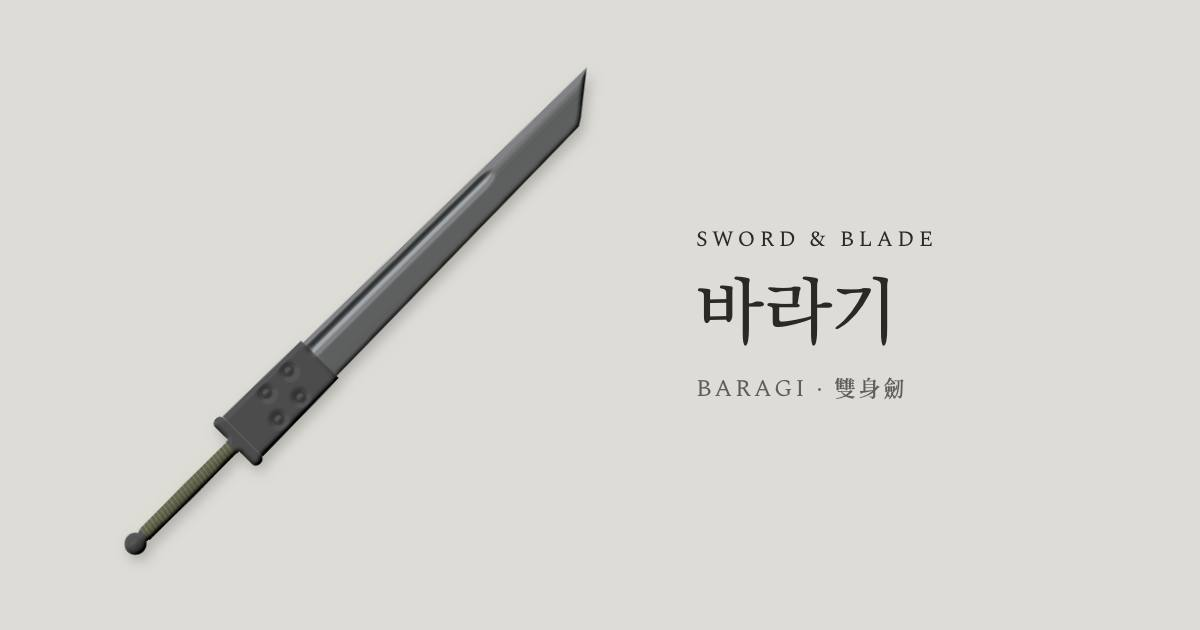
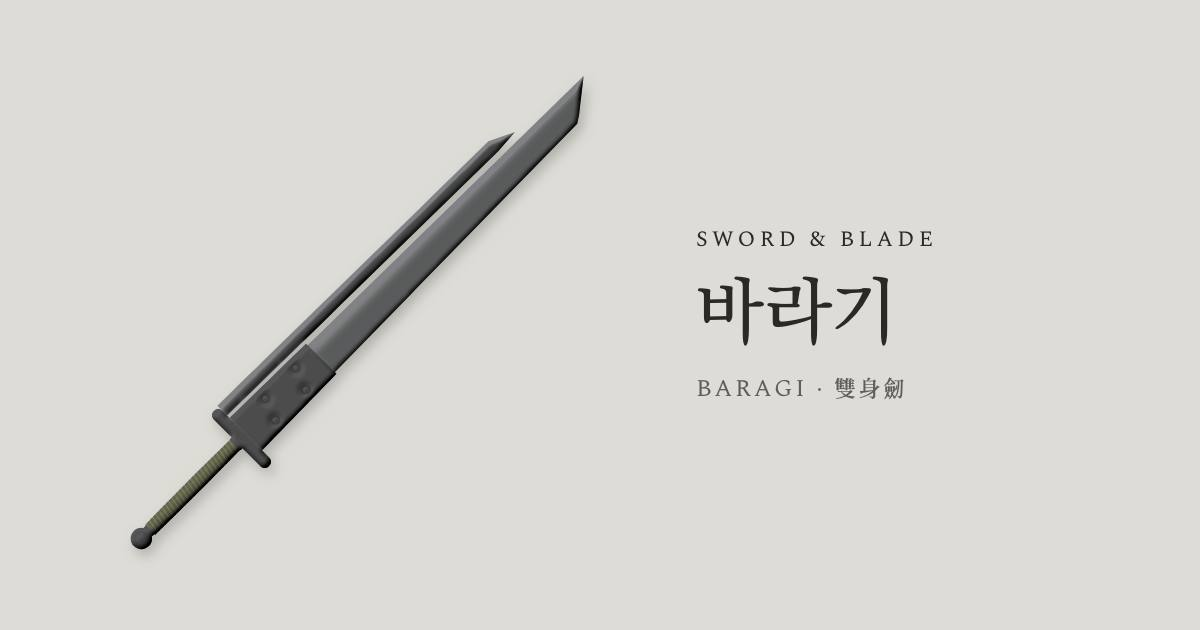
feat: 부조 렌더러 메달리온 문양과 나란한 두 칼날 1.9.0
메달리온 가운데 문양(편 손바닥·십자·별)과 한 코등이에 나란히 붙은 두 번째
칼날(twin)을 더함. 파멸의 인도자에 편 손바닥, 바라기를 두 칼날로. 시드 버전 17.

diff --git a/packages/sword-art/src/SwordRelief.tsx b/packages/sword-art/src/SwordRelief.tsx
@@ -20,6 +20,7 @@ import {
   sickleHookPath,
   sleevePoints,
   squareViewBox,
+  twinBladeOutline,
 } from './geometry';
 
 import type { SwordArt } from '@snb/domain';
@@ -194,6 +195,7 @@ function renderParts(art: SwordArt, layout: HiltLayout, layer: Layer, id: (name:
 
   return (
     <>
+      {art.blade.twin ? <TwinBlade art={art} fill={bladeFill} opacity={bladeOpacity} /> : null}
       <Blade art={art} fill={bladeFill} opacity={bladeOpacity} layer={layer} clipId={id('blade')} />
       {art.collar ? <Collar art={art} layout={layout} layer={layer} /> : null}
       <Guard art={art} layout={layout} layer={layer} />
@@ -429,9 +431,38 @@ function Medallion({ art, layer }: { art: SwordArt; layer: Layer }) {
         stroke={isHeight ? H.mid : '#00000033'}
         strokeWidth={r * 0.07}
       />
-      <circle cx={center.x} cy={center.y} r={r * 0.34} fill={isHeight ? H.raised : '#ffffff33'} />
+      {medallion.emblem ? (
+        <path
+          d={EMBLEMS[medallion.emblem]}
+          transform={`translate(${center.x} ${center.y}) scale(${r * 0.55})`}
+          fill={isHeight ? H.mid : '#00000055'}
+        />
+      ) : (
+        <circle cx={center.x} cy={center.y} r={r * 0.34} fill={isHeight ? H.raised : '#ffffff33'} />
+      )}
     </g>
   );
+}
+
+/** 메달리온 문양(가로세로 -1~1). 손바닥은 네 손가락·엄지·손바닥, 십자, 다섯 갈래 별 */
+const EMBLEMS: Record<NonNullable<NonNullable<SwordArt['blade']['medallion']>['emblem']>, string> = {
+  hand: [
+    'M-0.5 -0.05 H0.5 V0.55 Q0.5 0.9 0 0.9 Q-0.5 0.9 -0.5 0.55 Z',
+    'M-0.5 -0.1 V-0.62 Q-0.5 -0.72 -0.4 -0.72 Q-0.3 -0.72 -0.3 -0.62 V-0.1 Z',
+    'M-0.24 -0.1 V-0.84 Q-0.24 -0.94 -0.14 -0.94 Q-0.04 -0.94 -0.04 -0.84 V-0.1 Z',
+    'M0.02 -0.1 V-0.84 Q0.02 -0.94 0.12 -0.94 Q0.22 -0.94 0.22 -0.84 V-0.1 Z',
+    'M0.28 -0.1 V-0.66 Q0.28 -0.76 0.38 -0.76 Q0.48 -0.76 0.48 -0.66 V-0.1 Z',
+    'M-0.5 0.3 L-0.86 -0.02 Q-0.93 -0.1 -0.85 -0.17 Q-0.78 -0.22 -0.7 -0.15 L-0.42 0.08 Z',
+  ].join(' '),
+  cross: 'M-0.18 -0.85 H0.18 V-0.18 H0.85 V0.18 H0.18 V0.85 H-0.18 V0.18 H-0.85 V-0.18 H-0.18 Z',
+  star: 'M0 -0.9 L0.21 -0.29 L0.86 -0.28 L0.34 0.11 L0.53 0.73 L0 0.36 L-0.53 0.73 L-0.34 0.11 L-0.86 -0.28 L-0.21 -0.29 Z',
+};
+
+/** 나란한 두 번째 칼날: 큰 칼날과 같은 칠로, 칼날 외곽선 밖에 따로 그립니다. */
+function TwinBlade({ art, fill, opacity }: { art: SwordArt; fill: string; opacity: number }) {
+  const outline = twinBladeOutline(art);
+  if (!outline) return null;
+  return <path d={pointsToPath(outline)} fill={fill} fillOpacity={opacity} />;
 }
 
 /** 수정 칼날: 가운데 능선과, 등에서 능선을 거쳐 날로 비스듬히 오르는 면 경계 */

diff --git a/packages/mocks/src/catalog/fiction-works-3.ts b/packages/mocks/src/catalog/fiction-works-3.ts
@@ -208,8 +208,8 @@ export const WORKS3_ENTRIES: CatalogEntry[] = [
       'The twin-bladed sword of the Rekon Hero King—Sunflower and Moonflower side by side on one guard.',
     ],
     description: [
-      '공식 설정화처럼 넓은 외날 칼날과 가는 칼날 두 개가 한 코등이에 나란히 붙은 모습을 넓은 칼날과 그 사이 홈으로 나타내고, 칼날 밑동을 리벳 박은 쇠판으로 묶었습니다. 손잡이는 올리브색 끈, 끝은 둥근 원판입니다. 두 날의 무게가 달라 "비틀린 검"이 됩니다.',
-      'After the official concept art, the broad cleaver blade and the narrow blade sharing one guard are shown as a wide blade split by a groove, bound at the base by riveted iron plates; the grip is olive cord and the pommel a round disc. The blades differ in weight, making a “twisted sword”.',
+      '공식 설정화처럼 넓은 외날 칼날과 가는 칼날 두 개를 한 코등이에 나란히 붙이고, 칼날 밑동을 리벳 박은 쇠판으로 묶었습니다. 손잡이는 올리브색 끈, 끝은 둥근 원판입니다. 두 날의 무게가 달라 "비틀린 검"이 됩니다.',
+      'After the official concept art, a broad cleaver blade and a narrow blade sit side by side on one guard, bound at the base by riveted iron plates; the grip is olive cord and the pommel a round disc. The blades differ in weight, making a “twisted sword”.',
     ],
     story: [
       '눈물을 마시는 새',
@@ -223,15 +223,15 @@ export const WORKS3_ENTRIES: CatalogEntry[] = [
     art: {
       blade: {
         length: 1200,
-        width: 120,
+        width: 100,
         curve: 0,
         edge: 'single',
         tip: 'angled',
-        fuller: true,
         color: '#5c5e62',
         sleeve: { length: 260, color: '#3a3a3c' },
+        twin: { width: 34, gap: 14, length: 0.82 },
       },
-      guard: { type: 'block', width: 150, color: '#3a3a3c' },
+      guard: { type: 'block', width: 190, color: '#3a3a3c' },
       grip: { length: 300, color: '#6a6a4a', wrap: 'cord', wrapColor: '#4a4a32' },
       pommel: { type: 'wheel', color: '#3a3a3c' },
     },
@@ -807,7 +807,7 @@ export const WORKS3_ENTRIES: CatalogEntry[] = [
         tip: 'angled',
         flare: 1.3,
         color: '#d8dcdf',
-        medallion: { at: 0.6, size: 0.78, across: 0.4, color: '#e8b830' },
+        medallion: { at: 0.6, size: 0.78, across: 0.4, color: '#e8b830', emblem: 'hand' },
       },
       guard: { type: 'block', width: 280, color: '#b0281e', accent: GOLD },
       grip: { length: 330, color: '#efe9df', wrap: 'cord', wrapColor: '#b0281e' },

diff --git a/packages/sword-art/src/geometry.ts b/packages/sword-art/src/geometry.ts
@@ -309,6 +309,8 @@ export function localBounds(art: SwordArt): Bounds {
   // flare가 1보다 작으면(칼끝으로 좁아지는 친퀘데아) 밑동이 가장 넓습니다.
   const maxWidth = blade.width * Math.max(1, blade.flare ?? 1) * (1 + (blade.bulge ?? 0));
   const halfBlade = maxWidth / 2 + Math.abs(blade.curve) + (blade.wave ?? 0) + (blade.teeth ? blade.width * 0.4 : 0);
+  // 두 번째 칼날은 칼등 쪽(왼쪽)에 붙습니다.
+  const twin = blade.twin ? blade.twin.gap + blade.twin.width : 0;
   const sickle = blade.tip === 'sickle' ? blade.width * 2.4 : 0;
   const hook = blade.tip === 'hook' ? blade.width * 2.8 : 0;
   // 손등 보호대·바구니는 손잡이 옆(날 쪽)으로 나옵니다.
@@ -317,11 +319,32 @@ export function localBounds(art: SwordArt): Bounds {
   const crook = art.pommel.type === 'crook' ? 72 : 0;
   const tassel = art.tassel ? 120 : 0;
   return {
-    minX: -Math.max(halfBlade + hook, halfGuard, crook, 40),
+    minX: -Math.max(halfBlade + hook + twin, halfGuard, crook, 40),
     maxX: Math.max(halfBlade + sickle, halfGuard, bow, 40) + tassel * 0.7,
     minY: -blade.length - 4 - (hook ? blade.width * 1.8 : 0),
     maxY: layout.pommelEnd + tassel,
   };
+}
+
+/**
+ * 나란한 두 번째 칼날(twin)의 외곽선. 큰 칼날의 칼등 선을 따라 gap만큼 떨어져 width 너비로 가다가 끝을 뾰족하게 모읍니다.
+ * twin이 없으면 null입니다.
+ */
+export function twinBladeOutline(art: SwordArt): Point[] | null {
+  const twin = art.blade.twin;
+  if (!twin) return null;
+  const end = Math.min(0.98, Math.max(0.2, twin.length ?? 0.9));
+  const tipStart = Math.max(0.05, end - (twin.width * 1.8) / art.blade.length);
+  const steps = 24;
+  const back: Point[] = [];
+  const front: Point[] = [];
+  for (let i = 0; i <= steps; i += 1) {
+    const p = bladePoint(art, (tipStart * i) / steps, 0);
+    back.push({ x: p.x - twin.gap - twin.width, y: p.y });
+    front.push({ x: p.x - twin.gap, y: p.y });
+  }
+  const tip = bladePoint(art, end, 0);
+  return [...back, { x: tip.x - twin.gap - twin.width * 0.15, y: tip.y }, ...front.reverse()];
 }
 
 export const ROTATION_DEG = 45;

diff --git a/packages/sword-art/src/SwordRelief.test.tsx b/packages/sword-art/src/SwordRelief.test.tsx
@@ -3,7 +3,7 @@ import { describe, expect, it } from 'vitest';
 
 import { SEED_SWORDS } from '@snb/mocks';
 
-import { type ReliefFocus } from './geometry';
+import { localBounds, type ReliefFocus } from './geometry';
 import { BladeMark } from './Logo';
 import { SwordRelief } from './SwordRelief';
 
@@ -116,6 +116,26 @@ describe('SwordRelief 칼날 장식', () => {
     expect(opacityOf(draw({ color: '#1f2420' }), '#1f2420')).toBe(0.9);
     // 다른 재질은 재질 진하기를 그대로 씁니다.
     expect(opacityOf(draw({ material: 'bronze', color: '#a0702a' }), '#a0702a')).toBe(0.8);
+  });
+
+  it('메달리온 문양(손바닥·십자·별)은 두 층에 문양 경로를 하나씩 더 그린다', () => {
+    const medallion = { at: 0.5, size: 0.6, color: '#e8b830' };
+    const plain = draw({ medallion });
+    for (const emblem of ['hand', 'cross', 'star'] as const) {
+      const marked = draw({ medallion: { ...medallion, emblem } });
+      expect(count(marked, 'path') - count(plain, 'path'), emblem).toBe(2);
+      expect(marked).not.toMatch(BROKEN);
+    }
+  });
+
+  it('나란한 두 번째 칼날(twin)은 두 층에 칼날을 하나씩 더 그리고, 그림 범위를 칼등 쪽으로 넓힌다', () => {
+    const plain = draw({});
+    const twin = draw({ twin: { width: 30, gap: 12, length: 0.8 } });
+    expect(count(twin, 'path') - count(plain, 'path')).toBe(2);
+    expect(twin).not.toMatch(BROKEN);
+    const art = (blade: Partial<SwordArt['blade']>) => ({ ...base, blade: { ...base.blade, ...blade } });
+    // 코등이(너비 160)보다 칼등 쪽으로 더 나가는 두 번째 칼날이면 그림 범위가 그만큼 넓어집니다.
+    expect(localBounds(art({ twin: { width: 60, gap: 20 } })).minX).toBeLessThan(localBounds(art({})).minX - 30);
   });
 
   it('칼날 메달리온은 두 층에 원 네 개씩을 그리고, 위치와 크기를 칼날 안쪽으로 맞춘다', () => {

diff --git a/packages/domain/src/types.ts b/packages/domain/src/types.ts
@@ -100,7 +100,19 @@ export interface SwordArt {
      * 칼날에 박은 둥근 메달리온(파멸의 인도자). at은 밑동에서 칼끝까지의 위치(0~1), size는 그 자리 칼날 너비에 대한 지름 비율,
      * across는 너비 방향 위치(0 등 ~ 1 날, 기본 0.5)입니다. 칼등 밖으로 조금 나와도 됩니다.
      */
-    medallion?: { at: number; size: number; color: string; across?: number };
+    medallion?: {
+      at: number;
+      size: number;
+      color: string;
+      across?: number;
+      /** 메달리온 가운데 돋을새김 문양. hand 편 손바닥(파멸의 인도자), cross 십자, star 별 */
+      emblem?: 'hand' | 'cross' | 'star';
+    };
+    /**
+     * 한 코등이에 나란히 붙은 두 번째 칼날(바라기). 칼등 쪽으로 gap mm 떨어져 width mm 너비로 붙고,
+     * length는 큰 칼날 길이에 대한 비율(기본 0.9)입니다. 끝은 뾰족합니다.
+     */
+    twin?: { width: number; gap: number; length?: number };
   };
   collar?: { color: string };
   guard: {

diff --git a/packages/mocks/src/seed.ts b/packages/mocks/src/seed.ts
@@ -504,7 +504,7 @@ const SWORDS_KO: Sword[] = [
  * 시드 내용(그림·설명·번역·도검 목록)이 바뀔 때마다 올립니다.
  * 브라우저에 저장된 Mock 데이터가 이 값보다 낮으면 db.ts의 migrateSeed가 새 시드에 맞춥니다.
  */
-export const SEED_VERSION = 16;
+export const SEED_VERSION = 17;
 
 /** 영어 번역을 붙인 시드 도검 */
 export const SEED_SWORDS: Sword[] = [

diff --git a/CHANGELOG.md b/CHANGELOG.md
@@ -1,5 +1,16 @@
 # 버전 기록
 
+## 1.9.0 - 2026-11-21
+
+부조 렌더러에 원작 디자인을 옮길 장식 두 가지를 더합니다(사용자 요청 "계속 진행해 주세요"). 도검 수는 그대로입니다.
+
+- 메달리온 문양(`blade.medallion.emblem`: 편 손바닥·십자·별): 파멸의 인도자 메달리온에 은빛 성기사단의 편 손바닥을 새김
+- 나란한 두 번째 칼날(`blade.twin`: 너비·간격·길이 비율): 한 코등이에 붙은 넓은 칼날과 가는 칼날을 그대로 그림. 바라기를 홈 대신 두 칼날로 바꾸고 설명도 고침. 그림 범위(`localBounds`)가 두 번째 칼날만큼 칼등 쪽으로 넓어짐
+- 어드민 상품 수정은 저장된 칼날 설정을 그대로 이어받아 새 장식을 지우지 않음(확인)
+- 시드 버전 17: 예전 데이터의 두 도검 그림도 바뀜. 공유 이미지 2장
+- 테스트: 문양 세 가지, 두 번째 칼날의 두 층 그리기와 그림 범위
+- 아직 못 그리는 모양: 열쇠 모양 칼날(키블레이드)은 쓸 도검이 들어올 때 더함
+
 ## 1.8.0 - 2026-11-21
 
 부조 렌더러를 손봅니다(사용자 요청 "렌더러를 더 손봐주세요"). 도검 자료는 그대로이고 그림만 바뀝니다.
